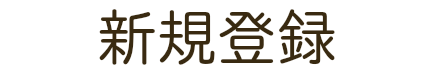
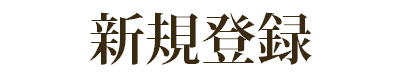
1

Changed region(s): [[0.21, 0.1067, 0.78, 0.88]]

diff --git a/js/roppongi.js b/js/roppongi.js
@@ -21,8 +21,16 @@ var roppongi = {
 	document.addEventListener('deviceready', roppongi.onDeviceReady, true);
    }
   ,onDeviceReady: function() {
-	//navigator.splashscreen.hide();
-	$('#btn_sinki').one('click touchdown',function(){
+	var imgfile = null;
+	this.data = utility.dataGet("roppongi");
+	if (this.data.id > 0) {
+	  imgfile = 'img/menu_syou.png';
+	} else {
+	  imgfile = 'img/menu_sinki.png';
+	}
+	$('#btn_sinki')
+	.html('<img src="'+imgfile+'" style="width:400px;height:76px;">')
+	.one('click touchdown',function(){
 	  $.mobile.loading('show');
 	  $('#btn_sinki').attr('disabled', 'disabled');
 	  roppongi.submit();
@@ -31,7 +39,6 @@ var roppongi = {
 	//loginpage.showStatus('ボタンにアクションを登録しました。');
   }
   ,submit: function() {
-	this.data = utility.dataGet("roppongi");
 	loginpage.getID(roppongi.set);
 	/*
 	if (!this.data) {

diff --git a/index.html b/index.html
@@ -25,7 +25,7 @@
     <div data-role="content">
 	<img src="img/clubm.png" class="club" style="position:absolute;top:680px;left:500px;width:400px;height:72px;">
 	<a href="#" data-role="button" id="btn_sinki" style="position:absolute;top:1050px;left:298px;width:800px;font-size:50px;line-height:1em;padding:0.3em 0 0.2em 0;box-shadow:4px 4px 6px #777;">
-	  <img src="img/menu_sinki.png" style="width:440px;height:75px;">
+	  &nbsp;
 	</a>
 	<div id="app-status-div" style="position:absolute;top:1200px;left:275px;font-size:22px;width:875px;">
 		<ul id="app-status-ul">
